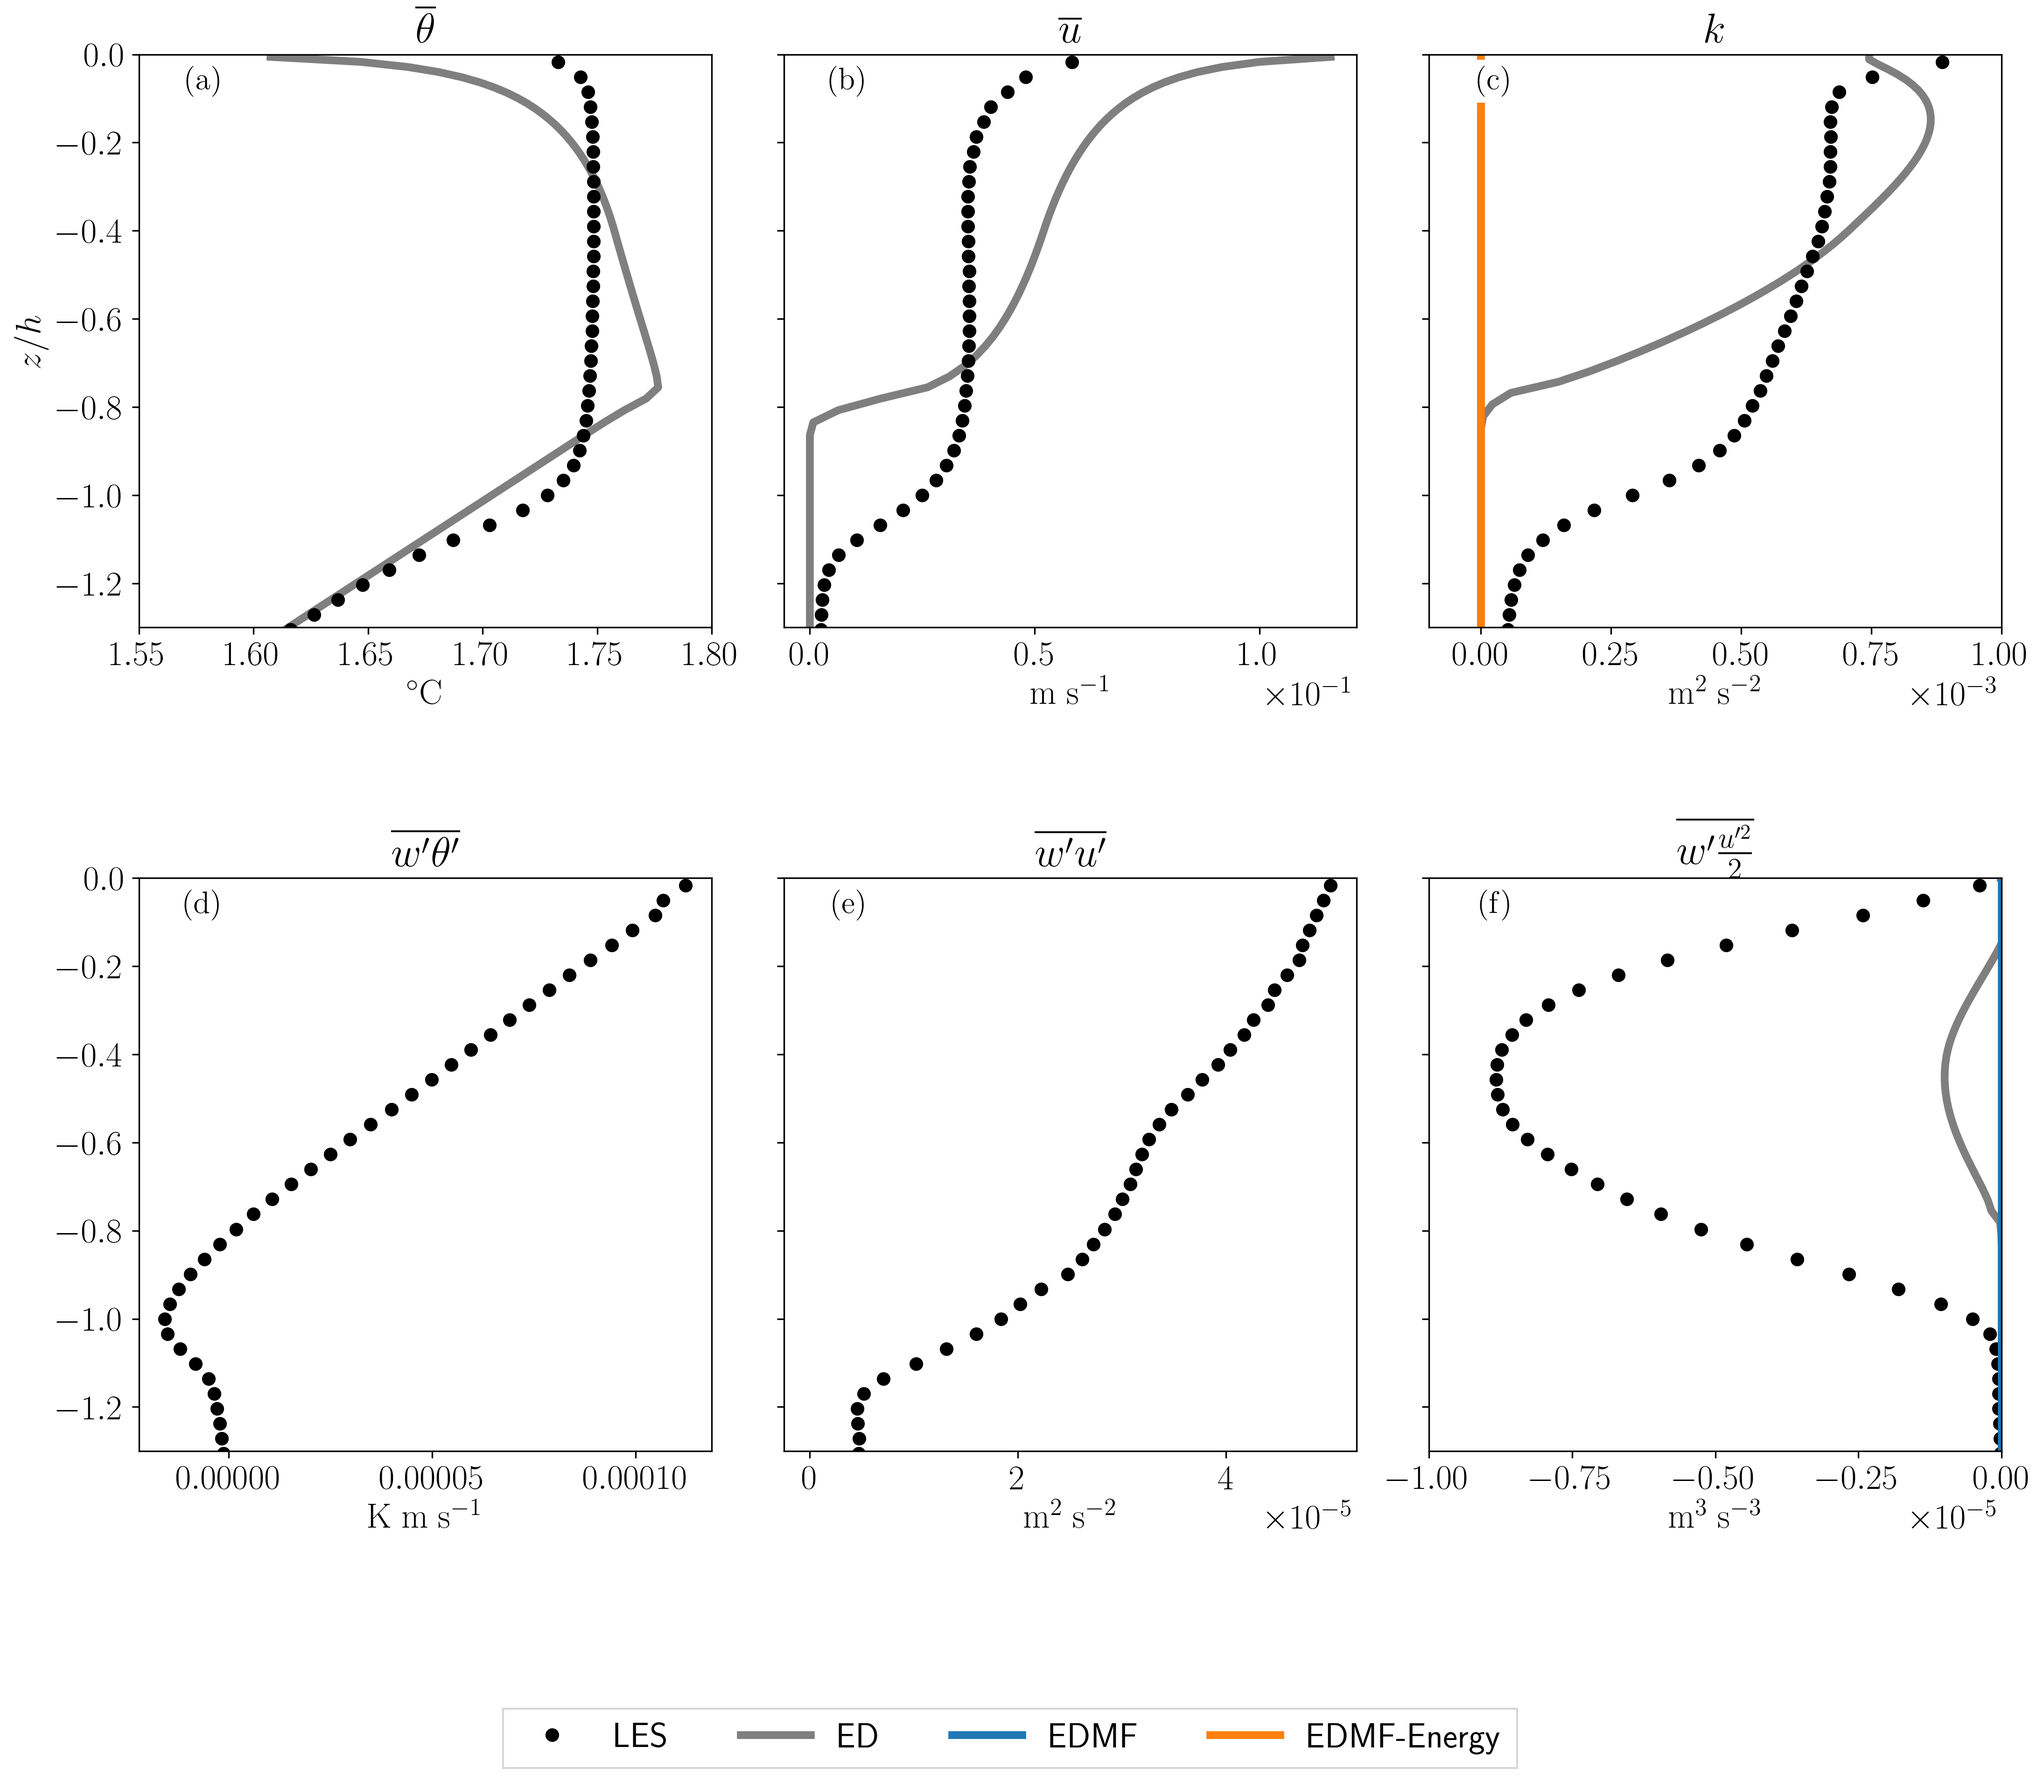
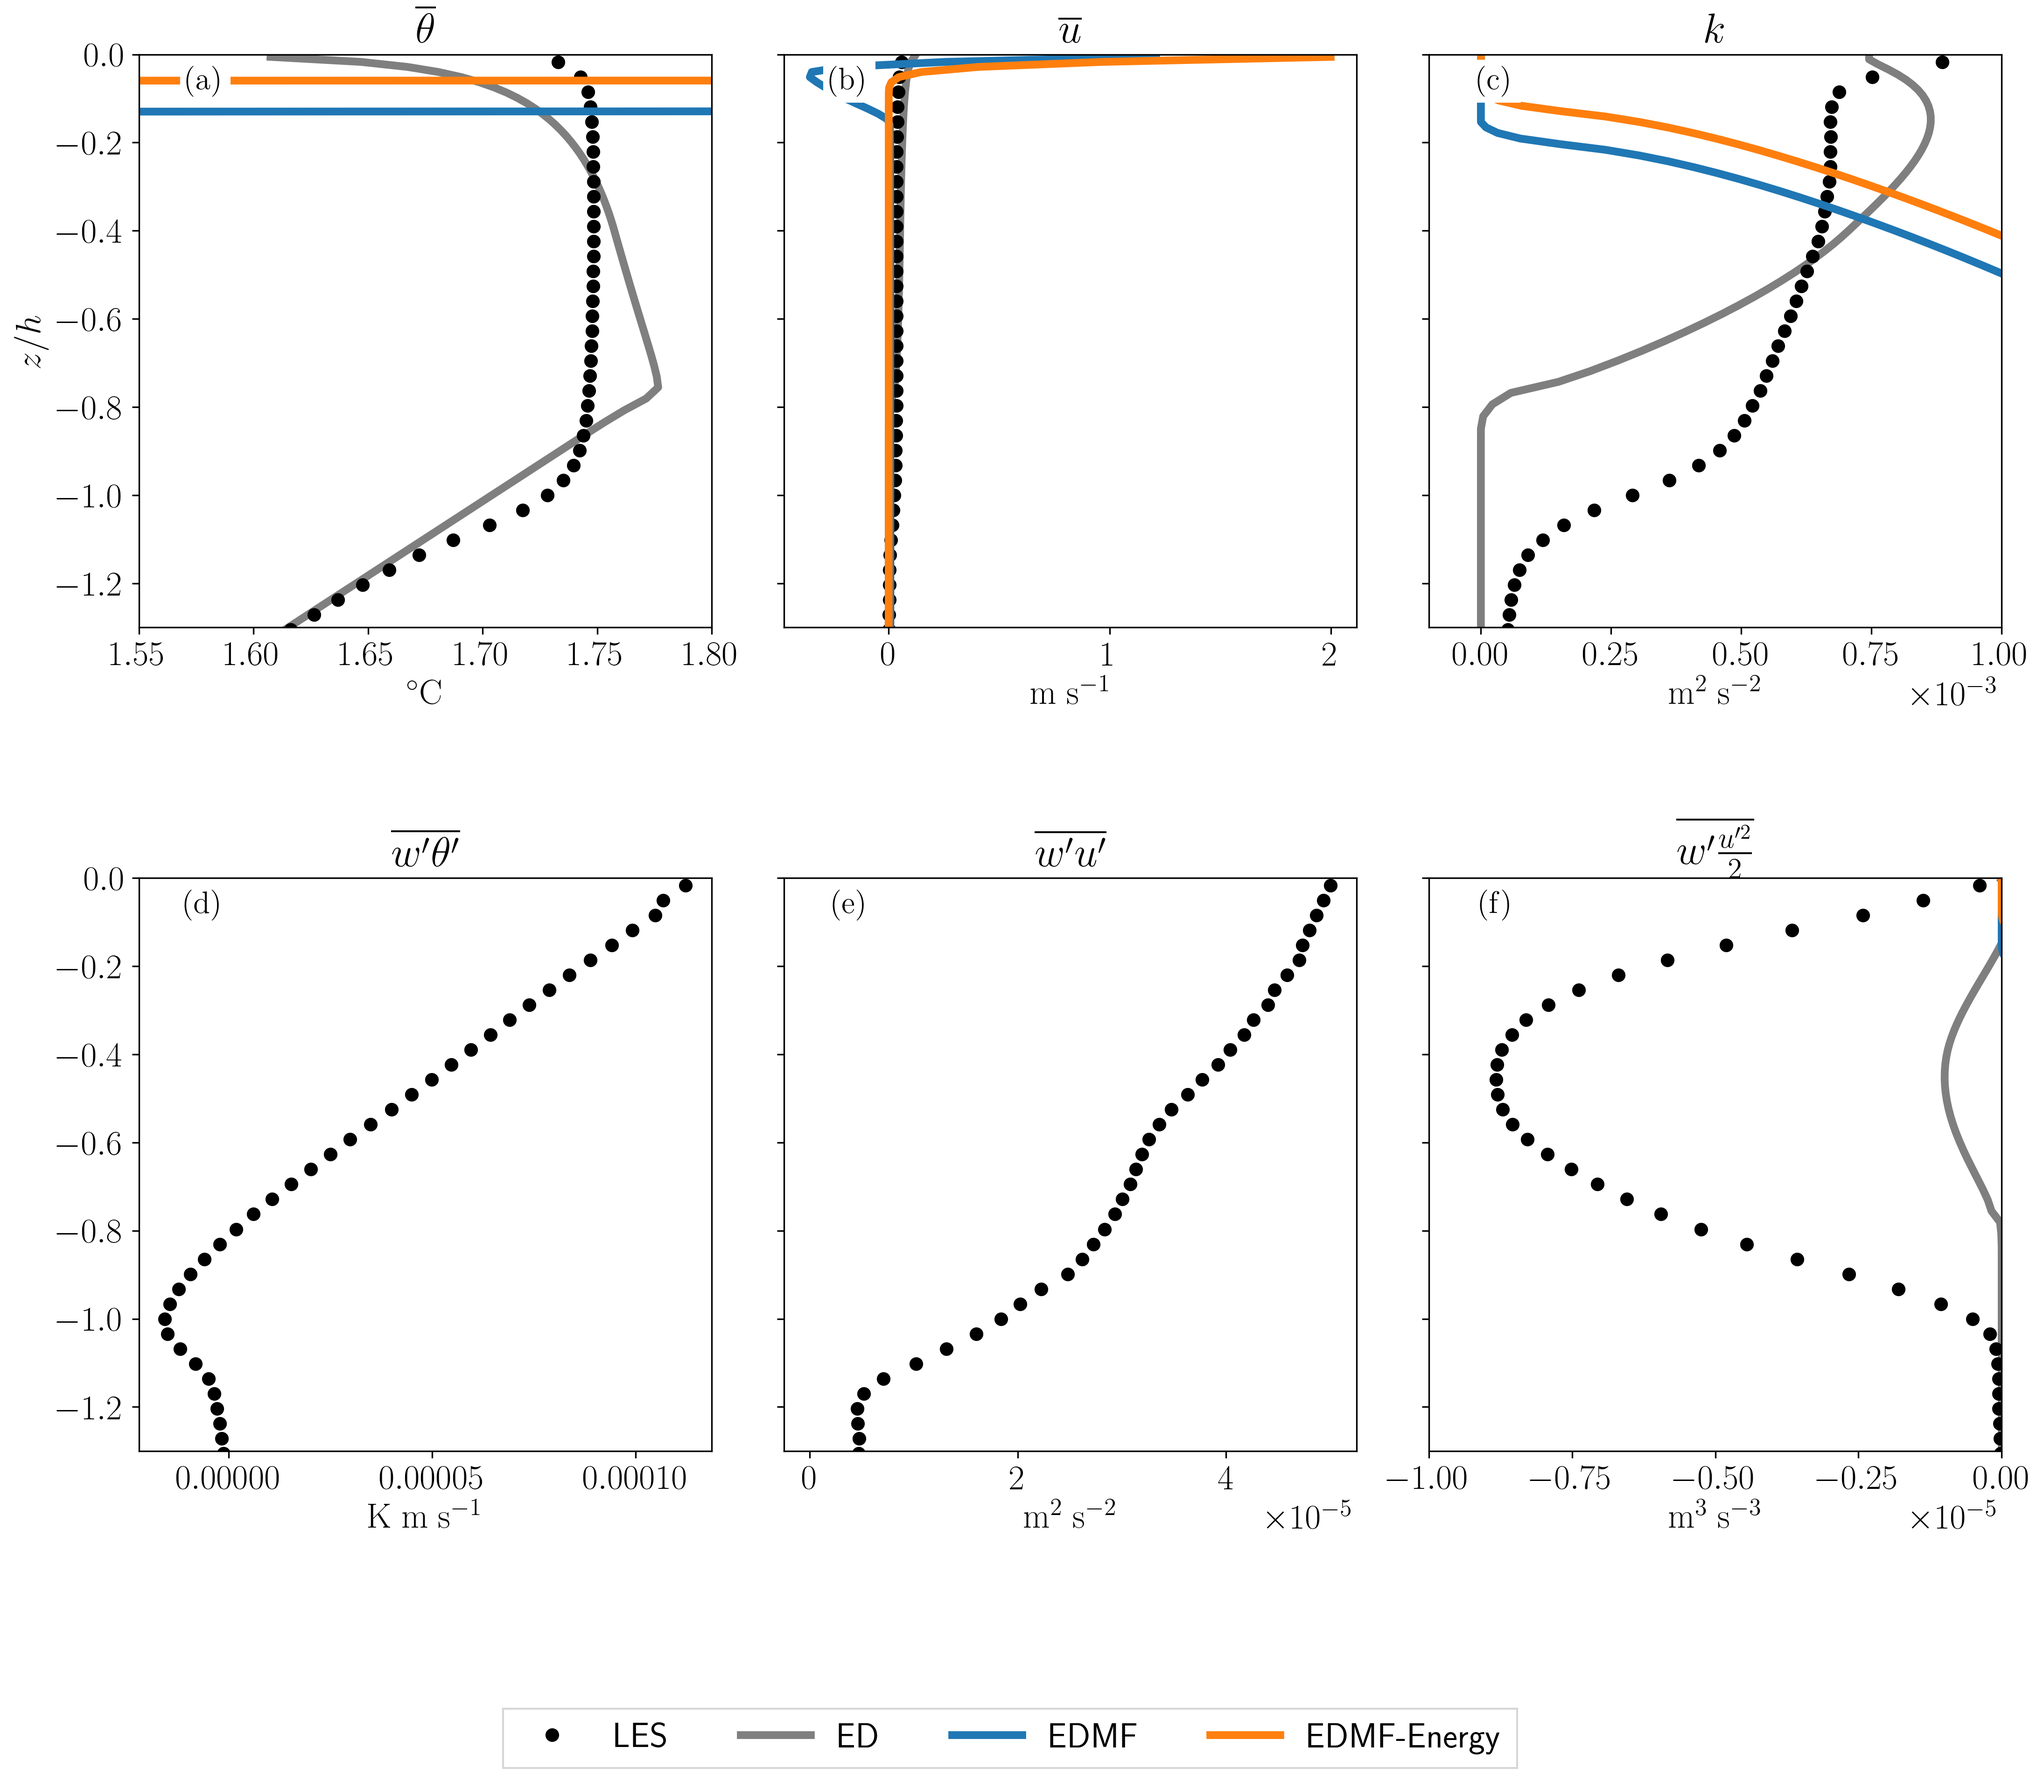
comment modifs mf_params delta/wp_bp

Changed region(s): [[0.3726, 0.0312, 0.6521, 0.374], [0.7142, 0.0623, 0.9936, 0.3428], [0.0621, 0.0312, 0.3416, 0.0623]]

diff --git a/edmf/src/W005_C500_NO_COR72h_profile_LES_vs_EDMF.py b/edmf/src/W005_C500_NO_COR72h_profile_LES_vs_EDMF.py
@@ -109,11 +109,12 @@ common_params = {
     'Cdet': 1.99,       # 'Cdet': 2.5,
     'wp_a': 1.,
     'wp_b': 1.25,      # 'wp_b': 1.
-    'wp_bp': 0.003*350,     #      0.002,
+    'wp_bp': 0.003,     #      0.002,
     'up_c': 0.5,
     'vp_c': 0.5,
     'bc_ap': 0.2,    #0.3,
-    'delta_bkg': 0.005*350,   # 0.006,
+    'delta_bkg': 0.005,   # 0.006,
+    'wpmin' : 1e-8,
     'output_filename': 'run'
 }
 
@@ -195,7 +196,7 @@ mld = (-z_r_les[(-WTH[instant]).argmax()]).data
 
 
 ################################# PLOTTING
-styles = ['k-', 'b-', 'r-']
+styles = ['-', '-', '-']
 #colors = ['k',blue,orange]
 colors = ['k','tab:blue','tab:orange']
 alpha = [0.5,1,1]
@@ -222,7 +223,7 @@ if case == 'W005_C500_NO_COR':
             alpha=alpha_les, linewidth=linewidth_les,  label='LES')
 
     for i, label in enumerate(run_label):
-        ax.plot(scm[i].t_np1[:, 0], scm[i].z_r/mld, styles[i], color = colors[i],
+        ax.plot(scm[i].t_np1[:, 0], scm[i].z_r/mld, linestyle=styles[i], color = colors[i],
                 alpha=alpha[i], linewidth=linewidth[i], label=label)
 
     ax.set_xlim((1.55, 1.8))
@@ -240,7 +241,7 @@ if case == 'W005_C500_NO_COR':
             alpha=alpha_les, linewidth=linewidth_les, label='LES')
 
     for i, label in enumerate(run_label):
-        ax.plot((scm[i].u_np1), scm[i].z_r/mld, styles[i], color = colors[i],
+        ax.plot((scm[i].u_np1), scm[i].z_r/mld, linestyle=styles[i], color = colors[i],
                 alpha=alpha[i], linewidth=linewidth[i], label=label)
 
     ax.ticklabel_format(style='sci', axis='x', scilimits=(0, 0))
@@ -258,10 +259,10 @@ if case == 'W005_C500_NO_COR':
 
     #for i, label in enumerate(run_label):
     #    if run_label == 'ED':
-    #        ax.plot(-(scm[i].wted), scm[i].z_w/mld, styles[i], color = colors[i],
+    #        ax.plot(-(scm[i].wted), scm[i].z_w/mld, linestyle=styles[i], color = colors[i],
     #                alpha=alpha[i], linewidth=linewidth[i], label=label)
     #    else:
-    #        ax.plot(-(scm[i].wted + scm[i].wtmf), scm[i].z_w/mld, styles[i], color = colors[i],
+    #        ax.plot(-(scm[i].wted + scm[i].wtmf), scm[i].z_w/mld, linestyle=styles[i], color = colors[i],
     #                alpha=alpha[i], linewidth=linewidth[i], label=label)
     #ax.ticklabel_format(style='sci', axis='x', scilimits=(0, 0))
 
@@ -283,7 +284,7 @@ if case == 'W005_C500_NO_COR':
             alpha=alpha_les, linewidth=linewidth_les, label='LES')
 
     for i, label in enumerate(run_label):
-        ax.plot(scm[i].tke_np1, scm[i].z_w/mld, styles[i], color = colors[i],
+        ax.plot(scm[i].tke_np1, scm[i].z_w/mld, linestyle=styles[i], color = colors[i],
                 alpha=alpha[i], linewidth=linewidth[i], label=label)
     ax.ticklabel_format(style='sci', axis='x', scilimits=(0, 0))
 
@@ -301,7 +302,7 @@ if case == 'W005_C500_NO_COR':
             alpha=alpha_les, linewidth=linewidth_les, label='LES')
 
     for i, label in enumerate(run_label):
-        ax.plot((scm[i].wtke), scm[i].z_r/mld, styles[i], color = colors[i],
+        ax.plot((scm[i].wtke), scm[i].z_r/mld, linestyle=styles[i], color = colors[i],
                 alpha=alpha[i], linewidth=linewidth[i], label=label)
 
 
@@ -320,7 +321,7 @@ if case == 'W005_C500_NO_COR':
 
 
     # for i, label in enumerate(run_label):
-    #         ax.plot((scm[i].wued + scm[i].wumf), scm[i].z_w/mld, styles[i], color = colors[i],
+    #         ax.plot((scm[i].wued + scm[i].wumf), scm[i].z_w/mld, linestyle=styles[i], color = colors[i],
     #                 alpha=alpha[i], linewidth=linewidth[i], label=label)
 
     # ax.ticklabel_format(style='sci', axis='x', scilimits=(0, 0))
@@ -376,7 +377,7 @@ if case == 'FC500':
             alpha=alpha_les, linewidth=linewidth_les,  label='LES')
 
     for i, label in enumerate(run_label):
-        ax.plot(scm[i].t_np1[:, 0], scm[i].z_r/mld, styles[i], color = colors[i],
+        ax.plot(scm[i].t_np1[:, 0], scm[i].z_r/mld, linestyle=styles[i], color = colors[i],
                 alpha=alpha[i], linewidth=linewidth[i], label=label)
 
     ax.set_xlim((1.65, 1.78))
@@ -393,10 +394,10 @@ if case == 'FC500':
 
     for i, label in enumerate(run_label):
         if run_label == 'ED':
-            ax.plot(-(scm[i].wted), scm[i].z_w/mld, styles[i], color = colors[i],
+            ax.plot(-(scm[i].wted), scm[i].z_w/mld, linestyle=styles[i], color = colors[i],
                     alpha=alpha[i], linewidth=linewidth[i], label=label)
         else:
-            ax.plot(-(scm[i].wted + scm[i].wtmf), scm[i].z_w/mld, styles[i], color = colors[i],
+            ax.plot(-(scm[i].wted + scm[i].wtmf), scm[i].z_w/mld, linestyle=styles[i], color = colors[i],
                     alpha=alpha[i], linewidth=linewidth[i], label=label)
     ax.ticklabel_format(style='sci', axis='x', scilimits=(0, 0))
 
@@ -417,7 +418,7 @@ if case == 'FC500':
             alpha=alpha_les, linewidth=linewidth_les, label='LES')
 
     for i, label in enumerate(run_label):
-        ax.plot(scm[i].tke_np1, scm[i].z_w/mld, styles[i], color = colors[i],
+        ax.plot(scm[i].tke_np1, scm[i].z_w/mld, linestyle=styles[i], color = colors[i],
                 alpha=alpha[i], linewidth=linewidth[i], label=label)
     ax.ticklabel_format(style='sci', axis='x', scilimits=(0, 0))
 
@@ -436,7 +437,7 @@ if case == 'FC500':
             alpha=alpha_les, linewidth=linewidth_les, label='LES')
 
     for i, label in enumerate(run_label):
-        ax.plot((scm[i].wtke), scm[i].z_r/mld, styles[i], color = colors[i],
+        ax.plot((scm[i].wtke), scm[i].z_r/mld, linestyle=styles[i], color = colors[i],
                 alpha=alpha[i], linewidth=linewidth[i], label=label)
 
 

diff --git a/edmf/library/F2PY/scm_class.py b/edmf/library/F2PY/scm_class.py
@@ -446,8 +446,9 @@ class SCM:
                                     self.nz , self.ntraMF , len(self.mf_params)  )
         if self.mass_flux_entr=='R10':
           # non-dimensional delta_0 and wp_bp
-          self.mf_params[4] = self.mf_params[4]/self.zinv 
-          self.mf_params[7] = self.mf_params[7]/self.zinv
+          #self.mf_params[4] = self.mf_params[4]/self.zinv 
+          #self.mf_params[7] = self.mf_params[7]/self.zinv
+          
           self.ap,self.up,self.vp,self.wp,self.tp,self.Bp,self.ent,self.det, self.epsPlume = scm_mfc.mass_flux_r10(
 #          self.ap,self.up,self.vp,self.wp,self.tp,self.Bp,self.ent,self.det, self.zinv = scm_mfc.mass_flux_r10(
                                     u_mean, v_mean, t_mean, self.tke_n, self.z_w, self.Hz,
